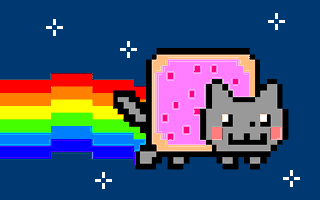
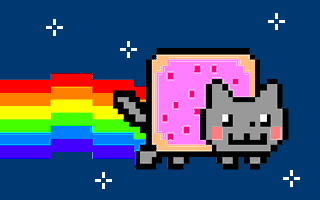
Better fitting

diff --git a/nyan256.py b/nyan256.py
@@ -63,13 +63,13 @@ else:
 
 img_hsv = cv2.cvtColor(img_bgra, cv2.COLOR_BGR2HSV).astype(int)
 
-grayscale_threshold = 40
+grayscale_threshold = 60
 
 #Convert to index of vga color plate in HSV color space
 for i,row in enumerate(img_hsv):
     for j,v in enumerate(row):
         if(v[1]<=grayscale_threshold or v[2]<=grayscale_threshold): #grayscale
-            img_hsv[i][j] = np.array([512,512,round(v[2]/17)])
+            img_hsv[i][j] = np.array([512,512,round(float(v[2])*15/255)])
         else:
             candidate_axis = [h_(v[0])]+[s_(v[1])]+[v_(v[2])]
             candidate = np.zeros((8,3), dtype=int)
@@ -81,11 +81,11 @@ for i,row in enumerate(img_hsv):
             #Calculate distance in HSV color space
             distance = []
             for k in candidate:
-                dh = min(abs(v[0]-vga_hue[k[0]]), 180-abs(v[0]-vga_hue[k[0]]))
-                ds = abs(v[1]-vga_sat[k[1]])
-                dv = abs(v[2]-vga_lightness[k[2]])
-                #distance.append(sqrt(dh*dh+ds*ds+dv*dv)) #Euclidean distance
-                distance.append(max(dh, ds, dv)) #Chebyshev distance
+                dh = 1 * min(abs(v[0]-vga_hue[k[0]]), 180-abs(v[0]-vga_hue[k[0]]))
+                ds = 1 * abs(v[1]-vga_sat[k[1]])
+                dv = 1 * abs(v[2]-vga_lightness[k[2]])
+                distance.append(sqrt(dh*dh+ds*ds+dv*dv)) #Euclidean distance
+                #distance.append(max(dh, ds, dv)) #Chebyshev distance
             
             #Pick the cantidate that have minimal distance
             candidate_index = 0

diff --git a/README.MD b/README.MD
@@ -8,7 +8,7 @@ Original image:
 Converted image:  
 ![nyyyyyan](https://github.com/ifTNT/nyan256/raw/master/output.png)  
 Disply in dosbox:  (use [MODE13H](https://github.com/ifTNT/MODE13H))  
-![anny](https://github.com/ifTNT/nyan256/raw/master/dosbox.png)  
+![anny](https://github.com/ifTNT/nyan256/raw/master/dosbox.png) 
 
 **With generated pixel-by-pixel binary file**
 
@@ -21,6 +21,13 @@ or execute `pip install -r requirement.txt` in root of this project.
 
 ## Author / License
 ifTNT @2019 / MIT
+
+## Benchmark
+RGB_24bits_palette_color_test_chart (from [Wikipedia](https://en.wikipedia.org/wiki/List_of_monochrome_and_RGB_palettes#/media/File:RGB_24bits_palette_color_test_chart.png)):  
+![24bit](https://upload.wikimedia.org/wikipedia/commons/b/b8/RGB_24bits_palette_color_test_chart.png)
+
+Converted image:  
+![24bit_256](https://github.com/ifTNT/nyan256/raw/master/RGB_24bits_256.png)
 
 ## Priciple
 
